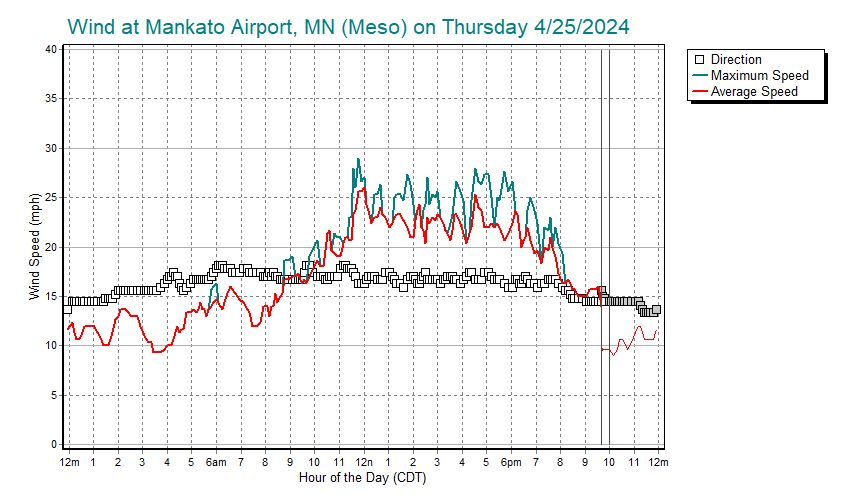
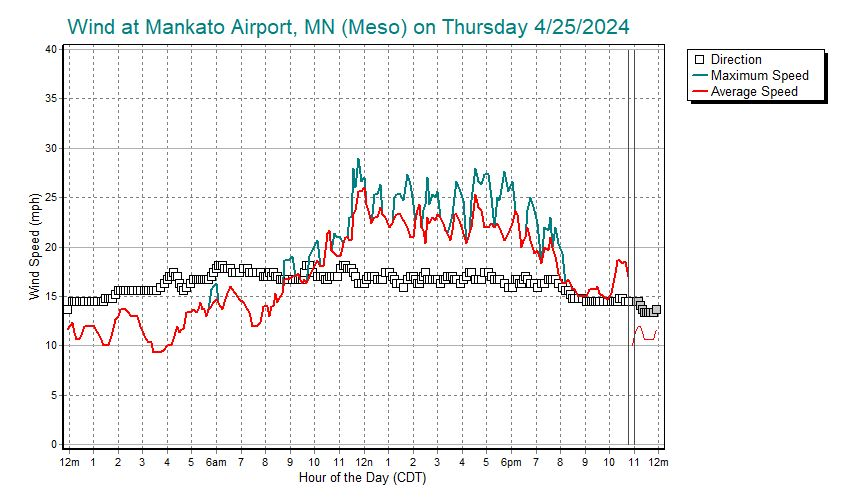
another update

Changed region(s): [[0.6994, 0.51, 0.7602, 0.63], [0.6994, 0.66, 0.7602, 0.72]]

diff --git a/charts.html b/charts.html
@@ -88,7 +88,7 @@
 	<p><b><font face="Arial" size="5">Samples from Rosy.asp</font></b></p>
    </div>
    <p><span>
-(24-hour charts updated Thursday, April 25, 2024 at 10:00PM Central).
+(24-hour charts updated Thursday, April 25, 2024 at 11:00PM Central).
    </span></p>
    <p>The orginal ASP page is named Rosy, a nickname windsurfers from the Tri-Cities gave Roosevelt, a sailing site on the east end of the Columbia River gorge.</p>
 	<p>This first pair of sample charts, wind and temperature, is updated every 

diff --git a/charts_input.html b/charts_input.html
@@ -88,7 +88,7 @@
 	<p><b><font face="Arial" size="5">Samples from Rosy.asp</font></b></p>
    </div>
    <p><span>
-(24-hour charts updated Thursday, April 25, 2024 at 10:00PM Central).
+(24-hour charts updated Thursday, April 25, 2024 at 11:00PM Central).
    </span></p>
    <p>The orginal ASP page is named Rosy, a nickname windsurfers from the Tri-Cities gave Roosevelt, a sailing site on the east end of the Columbia River gorge.</p>
 	<p>This first pair of sample charts, wind and temperature, is updated every 
